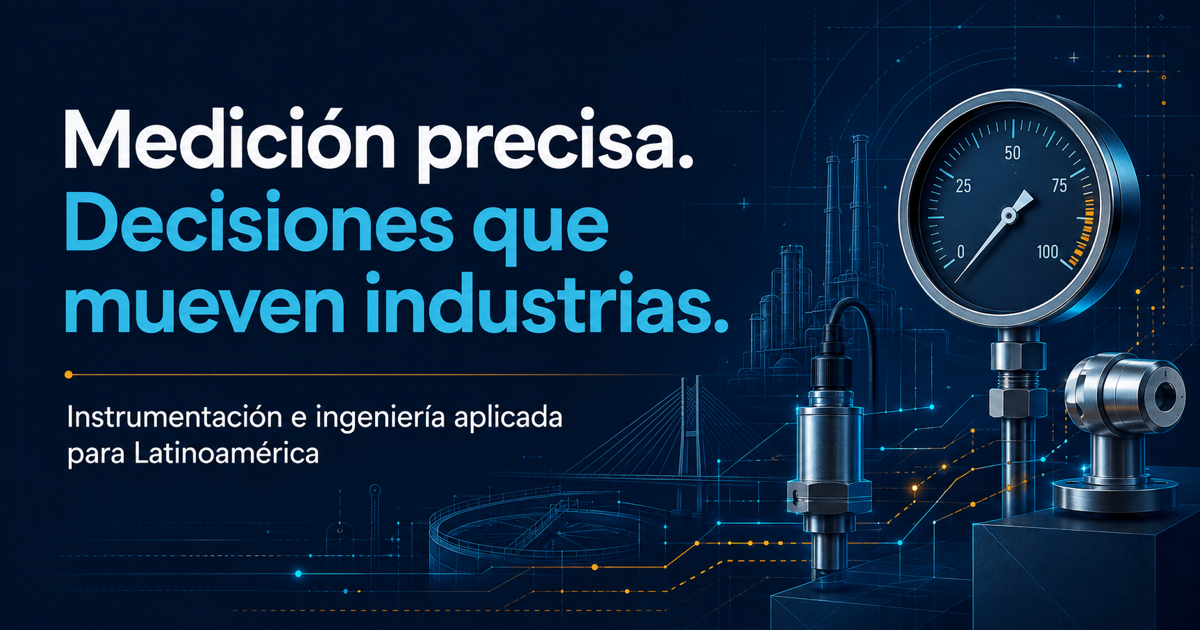
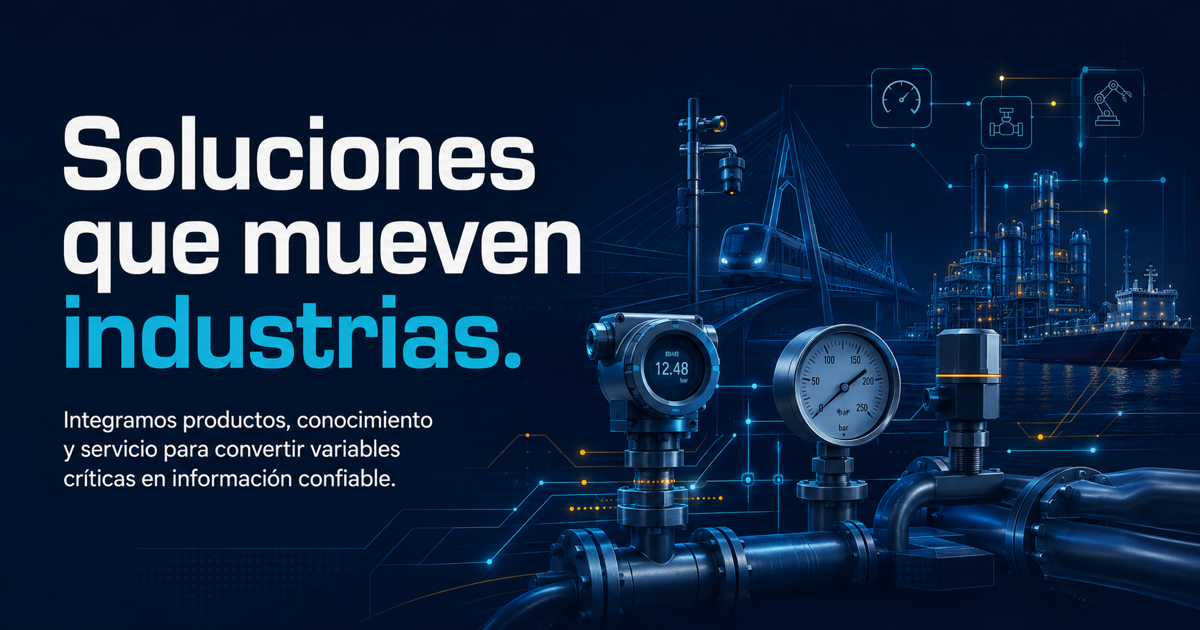
Update AREC messaging and catalog

diff --git a/app/page.tsx b/app/page.tsx
@@ -23,22 +23,19 @@ import {
 const businessLines = [
   {
     code: 'TSS',
-    title: 'Soluciones de tráfico y servicios',
-    text: 'Infraestructura inteligente para medir, interpretar y gestionar la movilidad.',
+    title: 'Sistemas Inteligentes de Transporte - ITS',
     image: '/assets/traffic-flow.jpg',
     icon: Route,
   },
   {
     code: 'ACI',
-    title: 'Automatización y control industrial',
-    text: 'Instrumentación precisa para procesos, calidad, mantenimiento y producción.',
+    title: 'Automatización industrial',
     image: '/assets/industrial-control.jpg',
     icon: Factory,
   },
   {
     code: 'PGM',
-    title: 'Petróleo, gas y marino',
-    text: 'Protección, monitoreo y control para operaciones críticas y ambientes exigentes.',
+    title: 'Petróleo, Gas y Marino.',
     image: '/assets/oil-gas.jpg',
     icon: Gauge,
   },
@@ -51,7 +48,6 @@ const applications = [
   ['Medición de fuerza', Ruler],
   ['Medición de peso', Weight],
   ['Control de temperatura', Settings2],
-  ['Transporte inteligente (ITS)', Route],
   ['Control industrial', Cpu],
   ['Diagnóstico estructural', Building2],
   ['Medición de torque', CircleGauge],
@@ -59,21 +55,15 @@ const applications = [
 ] as const;
 
 const products = [
-  'Research Center',
   'Acelerómetros y transmisores de vibración',
-  'Biomecánica',
-  'Celdas de carga',
-  'Clinómetros',
-  'Extensómetros',
+  'Celdas de carga (peso)',
   'Medidores de flujo',
-  'Medidores de torque (PAR)',
+  'Medidores de torque',
   'Sensores de nivel',
   'Sensores de presión',
-  'Sensores y transmisores de temperatura',
-  'Sistemas de información y software',
-  'Seguridad para maquinaria Diesel',
-  'Sistemas inteligentes de transporte (ITS)',
-  'Válvulas mecánicas y neumáticas',
+  'Sensores de temperatura',
+  'Válvulas termostáticas',
+  'Sistemas de protección para atmósferas explosivas (ATEX)',
 ];
 
 const services = [
@@ -152,16 +142,12 @@ export default function Home() {
         <div className="engineering-grid absolute inset-0 opacity-35" />
         <div className="relative mx-auto grid min-h-[740px] max-w-[1440px] items-center gap-14 px-5 py-24 lg:grid-cols-[1.1fr_.9fr] lg:px-10">
           <div className="max-w-3xl">
-            <p className="mb-7 flex items-center gap-3 text-[11px] font-black uppercase tracking-[0.2em] text-[#f5a623]">
-              <span className="h-px w-8 bg-[#f5a623]" /> Ingeniería aplicada · Latinoamérica
-            </p>
             <h1 className="max-w-4xl text-[clamp(3rem,7vw,6.8rem)] font-black leading-[.88] tracking-[-.065em]">
-              Medición precisa.<br />
-              <span className="text-[#37c8e7]">Decisiones</span> que<br />
-              mueven industrias.
+              Soluciones que<br />
+              <span className="text-[#37c8e7]">mueven industrias.</span>
             </h1>
             <p className="mt-8 max-w-2xl text-lg leading-8 text-white/72">
-              Integramos productos, conocimiento y servicio para convertir variables críticas en información confiable, desde la vía hasta la planta y el motor.
+              Integramos productos, conocimiento y servicio para convertir variables críticas en información confiable.
             </p>
             <div className="mt-10 flex flex-wrap gap-3">
               <ArrowLink href="#soluciones">Explorar soluciones</ArrowLink>
@@ -201,7 +187,7 @@ export default function Home() {
               <h2 className="mt-5 text-4xl font-black leading-[.95] tracking-[-.045em] sm:text-6xl">Ingeniería que conecta el mundo físico con decisiones.</h2>
             </div>
             <p className="max-w-2xl text-lg leading-8 text-[#334b60] lg:ml-auto">
-              La nueva AREC organiza su experiencia alrededor de tres frentes originales, con una lectura más clara para equipos técnicos, compradores y líderes de proyecto.
+              AREC organiza su experiencia alrededor de tres verticales de mercado.
             </p>
           </div>
           <div className="mt-14 grid gap-4 lg:grid-cols-3">
@@ -218,8 +204,6 @@ export default function Home() {
                     </div>
                     <div>
                       <h3 className="text-3xl font-black leading-none tracking-[-.035em]">{line.title}</h3>
-                      <p className="mt-4 leading-7 text-white/65">{line.text}</p>
-                      <a href="#contacto" className="mt-7 inline-flex items-center gap-2 text-xs font-black uppercase tracking-[0.12em] text-[#37c8e7]">Conocer la línea <ArrowRight className="size-4" /></a>
                     </div>
                   </div>
                 </article>
@@ -234,7 +218,7 @@ export default function Home() {
         <div className="relative mx-auto max-w-[1440px] px-5 lg:px-10">
           <div className="grid gap-10 lg:grid-cols-[.75fr_1.25fr]">
             <div>
-              <p className="section-kicker !text-[#37c8e7]">Aplicaciones originales</p>
+              <p className="section-kicker !text-[#37c8e7]">Una solución para cada aplicación</p>
               <h2 className="mt-5 text-4xl font-black leading-[.95] tracking-[-.045em] sm:text-6xl">Del fenómeno físico a la acción.</h2>
               <p className="mt-6 max-w-xl text-lg leading-8 text-white/60">Encuentre la solución por la variable o el proceso que necesita entender, controlar o proteger.</p>
             </div>
@@ -255,9 +239,7 @@ export default function Home() {
         <div className="mx-auto max-w-[1440px] px-5 lg:px-10">
           <div className="grid gap-10 lg:grid-cols-[.8fr_1.2fr]">
             <div className="lg:sticky lg:top-28 lg:self-start">
-              <p className="section-kicker">Portafolio recuperado</p>
               <h2 className="mt-5 text-4xl font-black leading-[.95] tracking-[-.045em] sm:text-6xl">Tecnología elegida por su aplicación.</h2>
-              <p className="mt-6 max-w-xl text-lg leading-8 text-[#526576]">Conservamos las quince categorías originales y las presentamos como un catálogo técnico más navegable.</p>
               <div className="relative mt-10 aspect-[1.35] overflow-hidden bg-[#e8edf0]">
                 <Image src="/assets/weigh-in-motion.png" alt="Sistema de pesaje en movimiento" fill className="object-contain p-8" />
               </div>
@@ -344,13 +326,13 @@ export default function Home() {
           <div>
             <p className="text-[11px] font-black uppercase tracking-[0.2em]">Hablemos de su aplicación</p>
             <h2 className="mt-5 max-w-4xl text-5xl font-black leading-[.9] tracking-[-.055em] sm:text-7xl">De una variable crítica a una solución clara.</h2>
-            <a href="mailto:info@arec.com.co?subject=Consulta%20técnica%20desde%20el%20nuevo%20sitio%20AREC" className="group mt-10 inline-flex h-14 items-center gap-3 bg-[#06182c] px-7 text-xs font-black uppercase tracking-[0.12em] text-white transition hover:bg-[#0b334e]">
+            <a href="mailto:ventas@arec.com.co?subject=Consulta%20técnica%20desde%20el%20nuevo%20sitio%20AREC" className="group mt-10 inline-flex h-14 items-center gap-3 bg-[#06182c] px-7 text-xs font-black uppercase tracking-[0.12em] text-white transition hover:bg-[#0b334e]">
               Solicitar asesoría técnica <ArrowRight className="size-4 transition-transform group-hover:translate-x-1" />
             </a>
           </div>
           <div className="grid content-end gap-5 text-sm font-semibold">
-            <a href="tel:+573142466775" className="flex items-center gap-4 border-b border-[#06182c]/25 pb-5"><Phone className="size-5" /> (+57) 314 246 6775</a>
-            <a href="mailto:info@arec.com.co" className="flex items-center gap-4 border-b border-[#06182c]/25 pb-5"><Mail className="size-5" /> info@arec.com.co</a>
+            <a href="tel:+573107835485" className="flex items-center gap-4 border-b border-[#06182c]/25 pb-5"><Phone className="size-5" /> +57 310 783 5485</a>
+            <a href="mailto:ventas@arec.com.co" className="flex items-center gap-4 border-b border-[#06182c]/25 pb-5"><Mail className="size-5" /> ventas@arec.com.co</a>
             <p className="flex items-start gap-4 border-b border-[#06182c]/25 pb-5"><MapPin className="mt-0.5 size-5 shrink-0" /> Carrera 19A No. 116–19, Oficina 102<br />Bogotá, Colombia</p>
           </div>
         </div>

diff --git a/app/layout.tsx b/app/layout.tsx
@@ -11,13 +11,13 @@ export const metadata: Metadata = {
   description: 'Soluciones de tráfico, automatización y control industrial, petróleo, gas y marino para Latinoamérica.',
   icons: { icon: '/favicon.png' },
   openGraph: {
-    title: 'AREC | Medición precisa. Decisiones que mueven industrias.',
+    title: 'AREC | Soluciones que mueven industrias.',
     description: 'Instrumentación e ingeniería aplicada para Latinoamérica.',
     images: [{ url: '/og.png', width: 1200, height: 630, alt: 'AREC — Instrumentación e ingeniería aplicada' }],
   },
   twitter: {
     card: 'summary_large_image',
-    title: 'AREC | Medición precisa. Decisiones que mueven industrias.',
+    title: 'AREC | Soluciones que mueven industrias.',
     description: 'Instrumentación e ingeniería aplicada para Latinoamérica.',
     images: ['/og.png'],
   },
